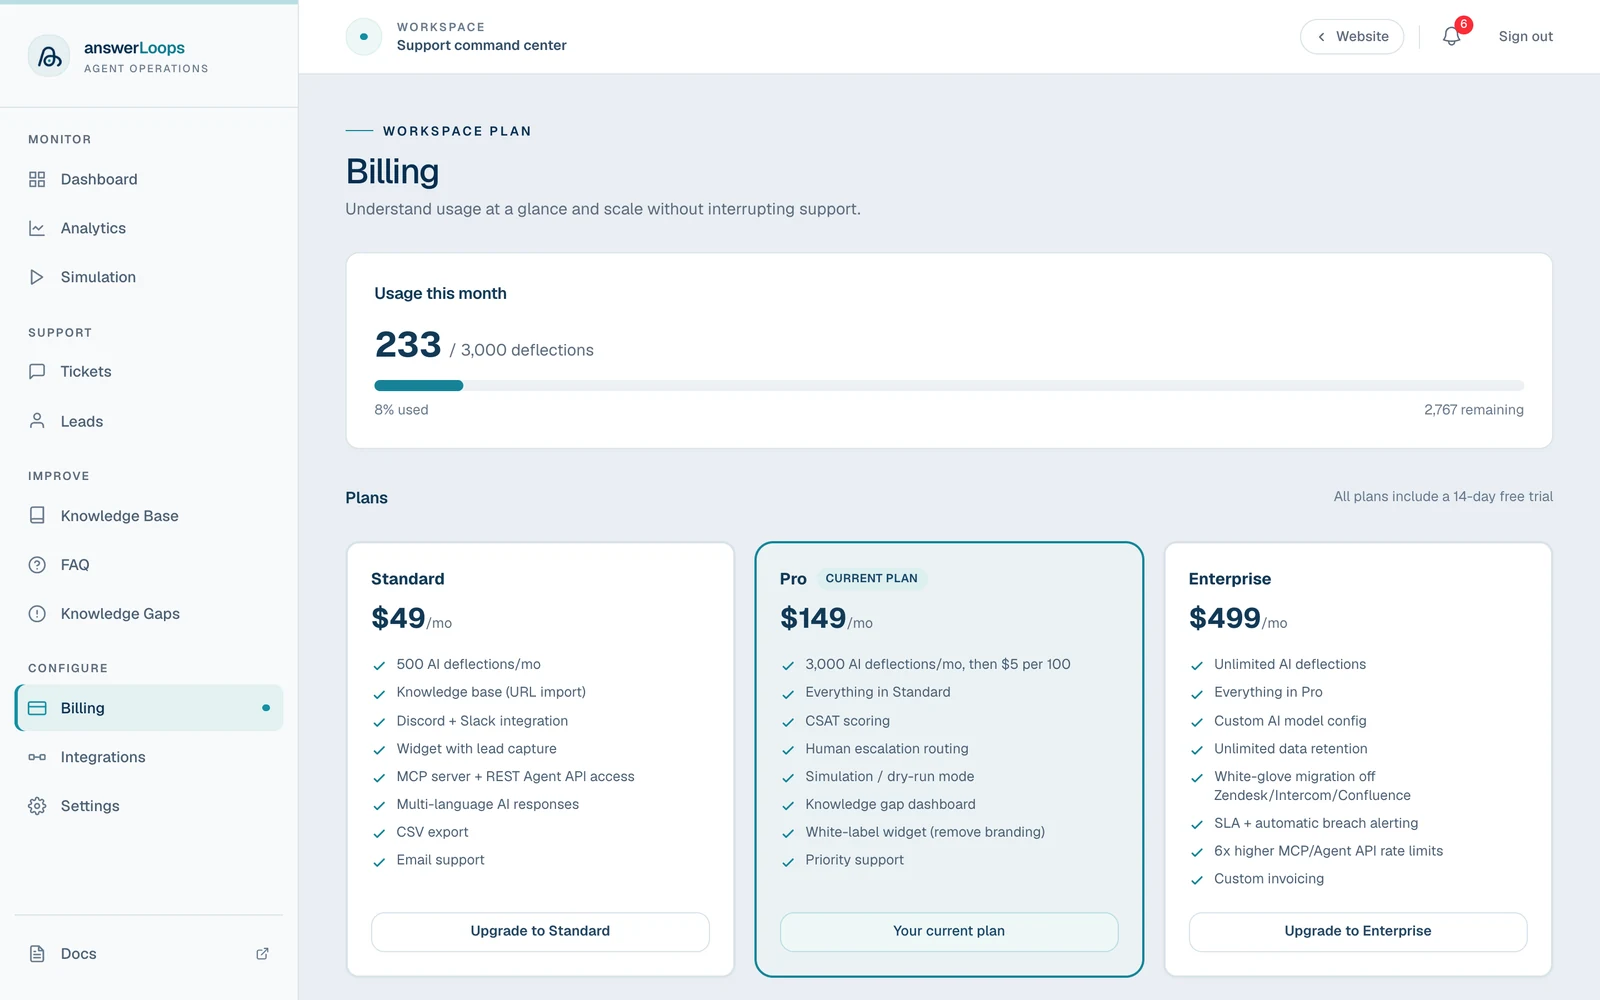
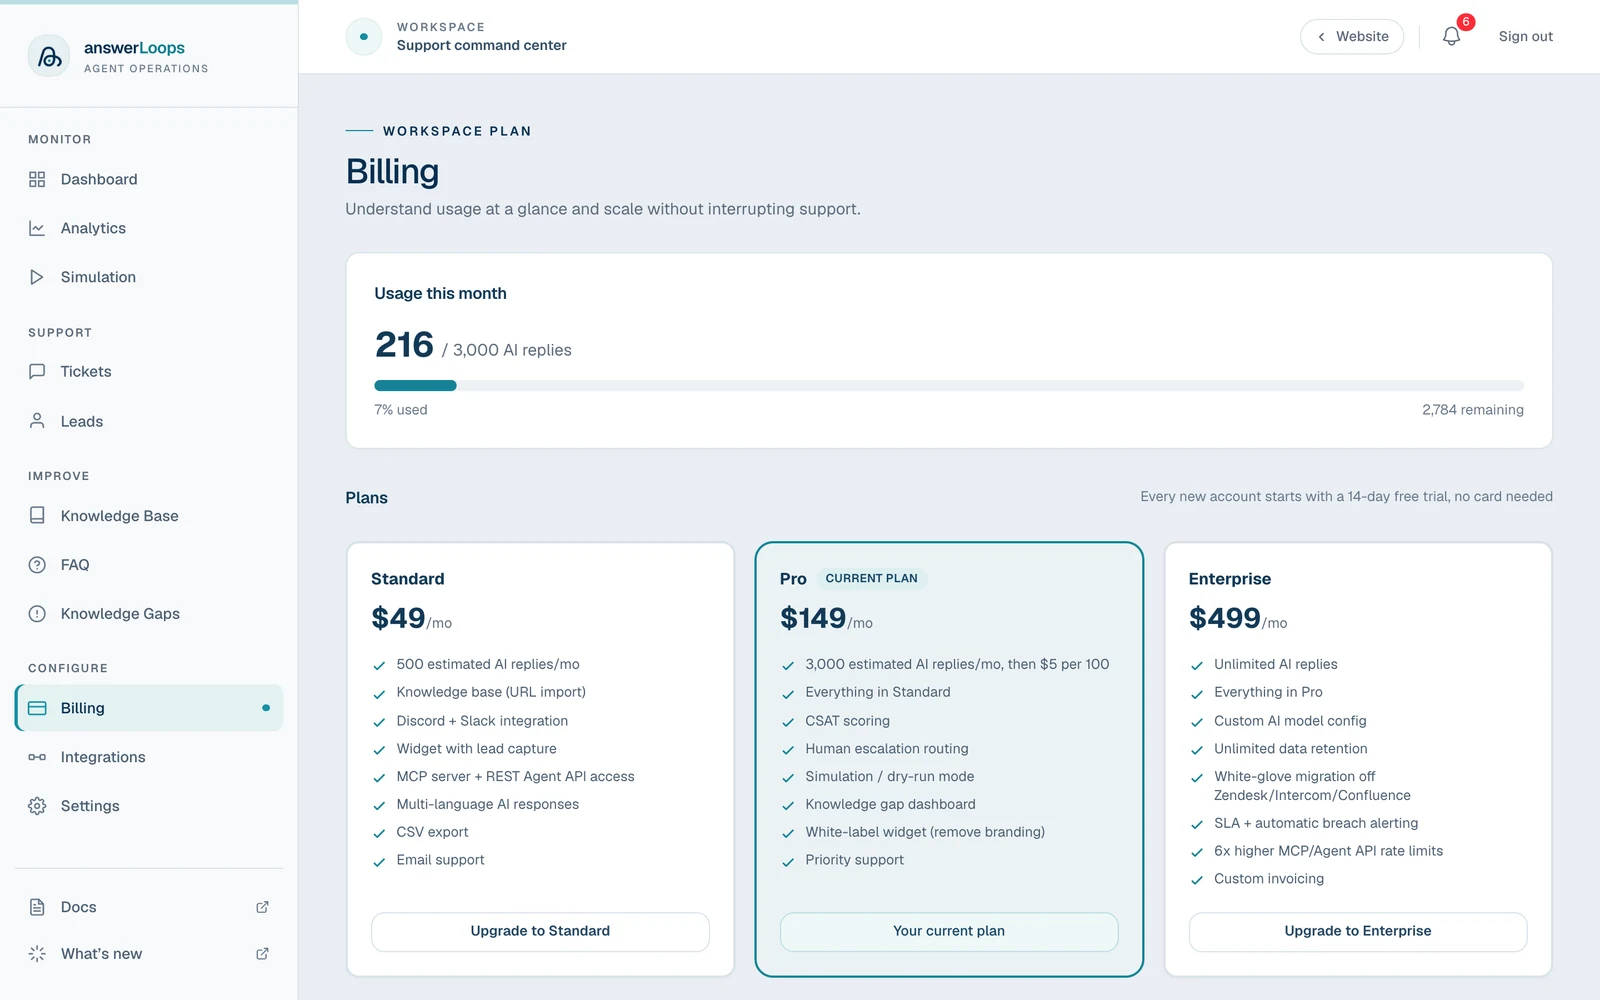
fix: add estimated to stated allowances, align the terms, refresh the billing shot
The first commit renamed the monthly allowance to AI replies. This follows up
so the figures read the same everywhere: every stated plan allowance on the
dashboard Billing page, the checkout panel and the plan docs now says
estimated AI replies, matching the pricing cards, while the live usage meter
stays an exact count.

The terms of service define an AI reply instead of a deflection, and the
billing docs screenshot is regenerated from the demo workspace so it no longer
shows the old label. The terminology test now also covers the estimated labels
and the terms wording.

diff --git a/tests/unit/ai-reply-terminology.test.ts b/tests/unit/ai-reply-terminology.test.ts
@@ -58,6 +58,12 @@ describe('the monthly allowance is called AI replies', () => {
     })
   }
 
+  it('the terms define an AI reply and no longer define a deflection', () => {
+    const terms = read('app/terms/page.tsx')
+    expect(terms).toContain('&ldquo;AI reply&rdquo;')
+    expect(terms).not.toMatch(/deflection/i)
+  })
+
   it('keeps the error code for API callers, which is a contract, not copy', () => {
     expect(read('lib/agent/openapi-spec.ts')).toContain("'deflection_limit_reached'")
   })
@@ -92,3 +98,24 @@ describe('what counts toward the allowance is stated plainly', () => {
     }
   })
 })
+
+describe('every stated plan allowance says estimated, as the pricing cards do', () => {
+  const cases: [string, RegExp][] = [
+    ['app/(dashboard)/billing/page.tsx', /500 estimated AI replies\/mo/],
+    ['app/(dashboard)/billing/page.tsx', /3,000 estimated AI replies\/mo/],
+    ['components/billing/embedded-checkout-panel.tsx', /estimated AI replies\/mo/],
+    ['content/docs/reference/billing-plans.mdx', /500 estimated AI replies a month/],
+    ['content/docs/reference/billing-plans.mdx', /3,000 estimated AI replies a month/],
+    ['content/docs/reference/billing-plans.mdx', /Estimated AI replies\/mo/],
+    ['content/docs/product/billing.mdx', /Included estimated AI replies per month/],
+    ['content/docs/quickstart-cloud.mdx', /Estimated AI replies per month/],
+    ['components/marketing/pricing-toggle.tsx', /estimated AI replies\/month/],
+    ['components/marketing/pricing-comparison-table.tsx', /Estimated AI replies \/ month/],
+  ]
+  for (const [file, pattern] of cases) {
+    it(`${file} matches ${pattern}`, () => {
+      expect(read(file)).toMatch(pattern)
+    })
+  }
+})
+

diff --git a/app/terms/page.tsx b/app/terms/page.tsx
@@ -335,14 +335,14 @@ export default function TermsOfServicePage() {
               until canceled.
             </p>
             <p>
-              A &ldquo;deflection&rdquo; is an automated answer counted toward
+              An &ldquo;AI reply&rdquo; is an automated answer counted toward
               your plan allowance. This includes qualifying channel replies and
               high-confidence standalone answers generated through the MCP or
               Agent API. Drafts routed for human review do not count. Allowances
               reset each calendar month, including on annual subscriptions.
               Standard pauses automated answering at 500; Pro includes 3,000 and
               charges $5 per additional block of 100, rounded up; Enterprise has
-              no deflection cap. The plan terms shown at checkout or in an
+              no AI reply cap. The plan terms shown at checkout or in an
               applicable order form control your purchase.
             </p>
             <p>

diff --git a/app/(dashboard)/billing/page.tsx b/app/(dashboard)/billing/page.tsx
@@ -18,7 +18,7 @@ interface BillingData {
 
 const PLAN_FEATURES: Record<string, string[]> = {
   standard: [
-    '500 AI replies/mo',
+    '500 estimated AI replies/mo',
     'Knowledge base (URL import)',
     'Discord + Slack integration',
     'Widget with lead capture',
@@ -28,7 +28,7 @@ const PLAN_FEATURES: Record<string, string[]> = {
     'Email support',
   ],
   pro: [
-    '3,000 AI replies/mo, then $5 per 100',
+    '3,000 estimated AI replies/mo, then $5 per 100',
     'Everything in Standard',
     'CSAT scoring',
     'Human escalation routing',

diff --git a/components/billing/embedded-checkout-panel.tsx b/components/billing/embedded-checkout-panel.tsx
@@ -355,7 +355,7 @@ export function EmbeddedCheckoutPanel({
                 <div className="mt-3 text-xs text-slate-600">
                   {p.deflectionsPerMonth === null
                     ? 'Unlimited AI replies'
-                    : `${p.deflectionsPerMonth.toLocaleString()} AI replies/mo`}
+                    : `${p.deflectionsPerMonth.toLocaleString()} estimated AI replies/mo`}
                 </div>
               </button>
             )
